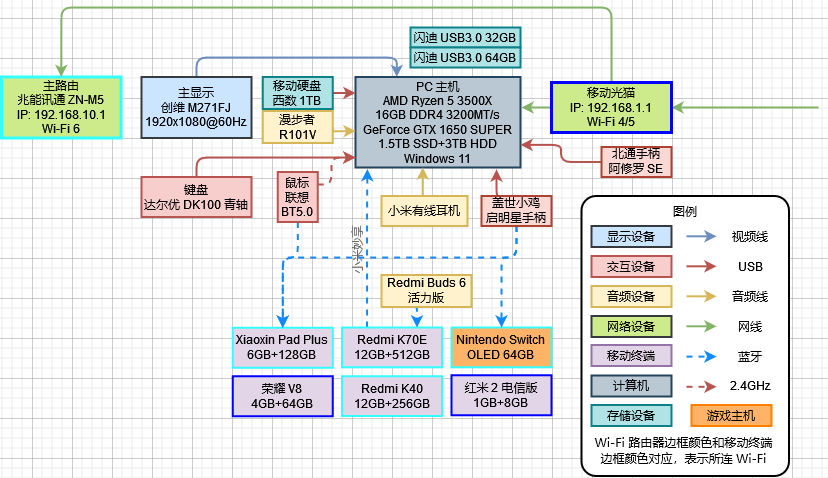
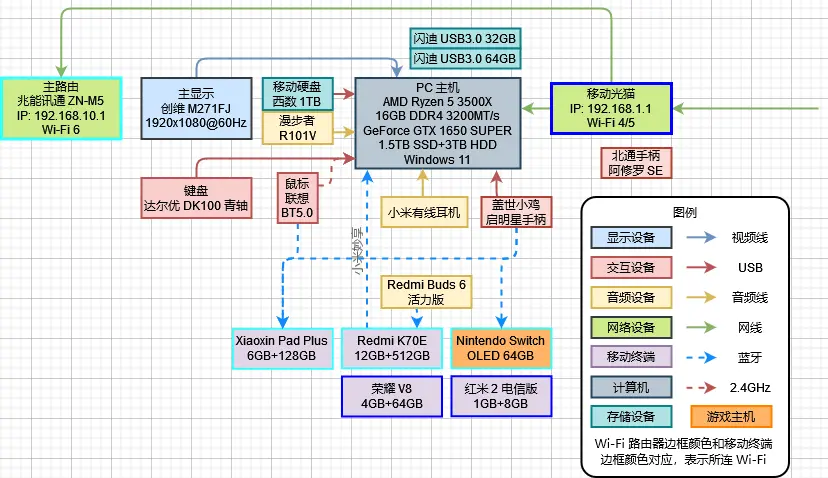
Update

diff --git a/source/_posts/2022-01-27-my-devices.md b/source/_posts/2022-01-27-my-devices.md
@@ -4,8 +4,8 @@ top_img: false
 sticky: 100
 ---
 
-- **本文最后更新**：2024-07-11
-- **设备布线图最后更新**：2024-07-11
+- **本文最后更新**：2024-07-18
+- **设备布线图最后更新**：2024-07-18
 
 <img src="/img/in-post/device-map.webp" />
 
@@ -33,16 +33,6 @@ sticky: 100
 - **屏幕**: 6.67" AMOLED (2712x1220)
 - **OS**: Android 14 (Xiaomi HyperOS 1.0)
 
-### Redmi K40
-- **是否主力**: 否
-- **购买时间**: 2021-06-08
-- **SoC**: 高通骁龙 870
-- **GPU**: Adreno 650
-- **RAM**: 12GB LPDDR5
-- **ROM**: 256GB UFS 3.1
-- **屏幕**: 6.67" AMOLED (2400x1080)
-- **OS**: Android 13 (Xiaomi HyperOS 1.0)
-
 ### 联想小新 Pad Plus
 - **是否主力**: 是
 - **购买时间**: 2022-04-17
@@ -52,6 +42,17 @@ sticky: 100
 - **ROM**: 128GB UFS 2.1
 - **屏幕**: 11" LCD (2000x1200)
 - **OS**: Android 12 (ZUI 14)
+
+### 荣耀 V8 高配版
+- **是否主力**: 否
+- **备注**: 由于更换了非官方副板，USB 口无法传输数据；电池续航有衰减
+- **购买时间**: 2017-01
+- **SoC**: 海思麒麟 955
+- **GPU**: Arm Mali-T880 MP4
+- **RAM**: 4GB LPDDR4
+- **ROM**: 64GB eMMC
+- **屏幕**: 5.7" LCD (2560x1440)
+- **OS**: Android 8.0.0 (EMUI 8.0)
 
 ### Nintendo Switch OLED
 - **是否主力**: 是
@@ -73,6 +74,17 @@ sticky: 100
 - **显示器**: AOC 2217 22" (1680x1050)
 - **OS**: Windows 10 Pro 22H2 64-bit (安装于 SSD)
 
+### Redmi K40
+- **不活跃原因**: 他人使用
+- **是否主力**: 否
+- **购买时间**: 2021-06-08
+- **SoC**: 高通骁龙 870
+- **GPU**: Adreno 650
+- **RAM**: 12GB LPDDR5
+- **ROM**: 256GB UFS 3.1
+- **屏幕**: 6.67" AMOLED (2400x1080)
+- **OS**: Android 13 (Xiaomi HyperOS 1.0)
+
 ### 小米 Max 2
 - **不活跃原因**: 他人使用
 - **备注**: 电池续航有衰减
@@ -83,17 +95,6 @@ sticky: 100
 - **ROM**: 64GB eMMC
 - **屏幕**: 6.44" LCD (1920x1080)
 - **OS**: Android 7.1.1 (MIUI 11)
-
-### 荣耀 V8 高配版
-- **不活跃原因**: 已被淘汰
-- **备注**: 由于更换了非官方副板，USB 口无法传输数据；电池续航有衰减
-- **购买时间**: 2017-01
-- **SoC**: 海思麒麟 955
-- **GPU**: Arm Mali-T880 MP4
-- **RAM**: 4GB LPDDR4
-- **ROM**: 64GB eMMC
-- **屏幕**: 5.7" LCD (2560x1440)
-- **OS**: Android 8.0.0 (EMUI 8.0)
 
 ### 红米 Note 4
 - **不活跃原因**: 电池衰减严重

diff --git a/source/_posts/2024-03-06-opinion-new-phone-for-mom.md b/source/_posts/2024-03-06-opinion-new-phone-for-mom.md
@@ -3,7 +3,9 @@ title: "给老妈挑选新手机时做的一点笔记"
 top_img: false
 ---
 
-> （2024-05-20 更新）换机计划暂时取消。
+> **（2024-07-18 更新）**把我原来的 K40 给我妈了，本文完结。
+>
+> ~~（2024-05-20 更新）换机计划暂时取消。~~
 
 昨天我发了一条酷安动态，里面提到我妈直播时需要用到一部不带 3.5mm 耳机孔的手机，以及她想换一部新手机。
 
@@ -33,7 +35,7 @@ top_img: false
 
 1500 元基本就是我妈的预算上限了，而这个价位以上符合要求的机型就比较多了，我还是挑了一款性价比很高的机型：
 
-- `Redmi K70E` 天玑 8300 的性能是 2022 年旗舰手机的水平，同时拥有 1.5K 屏幕、90W 快充和 5500mAh 大电池。某红色电商平台 12GB+256GB 杀到了 1600 元出头。
+- `Redmi K70E` 天玑 8300 的性能是 2022 年旗舰手机的水平，同时拥有 1.5K 屏幕、90W 快充和 5500mAh 大电池。某红色电商平台 12GB+256GB 杀到了 1600 元出头（2024 年 7 月已经打进 1500 以内了）。
 
 由于接下来发布的新机基本上都会超预算，所以我的备选清单在 618 之前应该不会更新了。不过我今年也打算换新手机，到时候应该也会 [写一篇笔记](https://kevinh.wang/choose-phone-for-myself/)。
 
